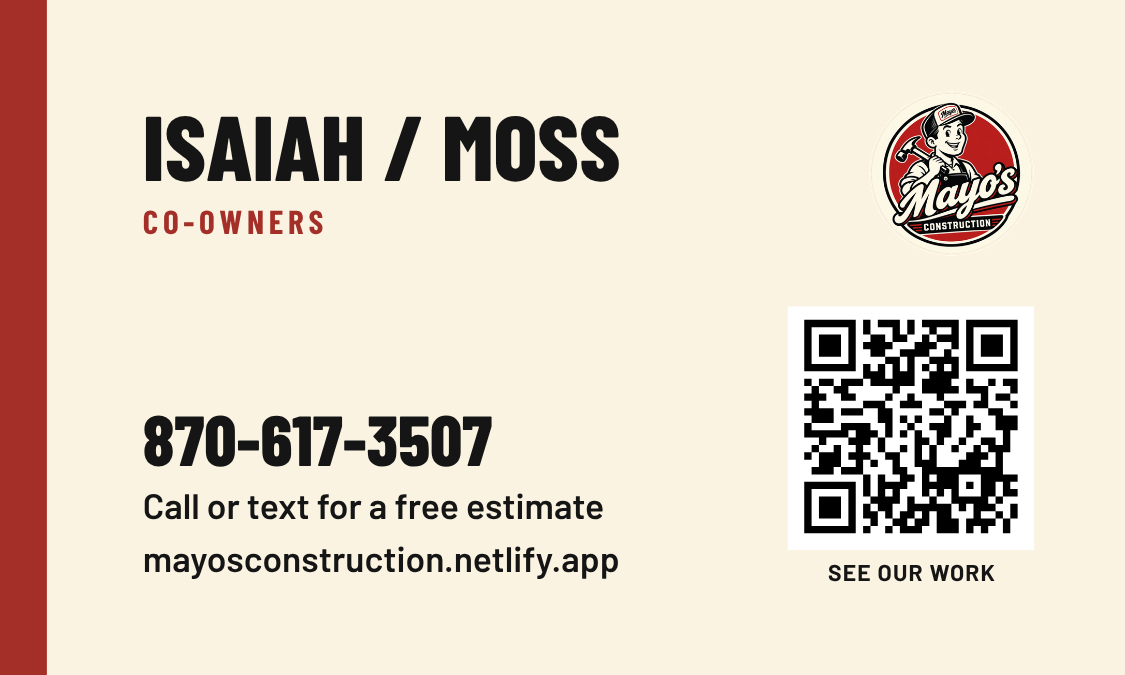
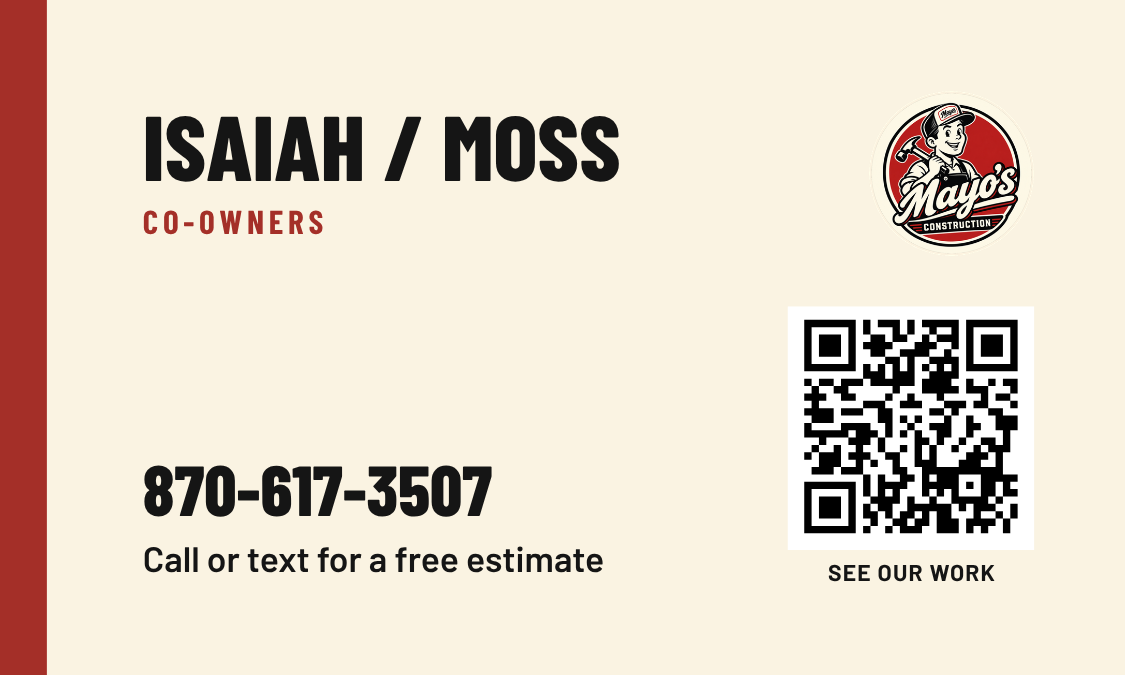
Business card: drop the typed-out website (QR code covers it)
Claude-Session: https://claude.ai/code/session_016r8tTYFp8jY15dkLJJkVBx

Changed region(s): [[0.1244, 0.5911, 0.56, 0.7778], [0.1244, 0.8089, 0.56, 0.8711]]

diff --git a/marketing/business-card.html b/marketing/business-card.html
@@ -49,7 +49,7 @@
     <div class="who"><div class="display person">Isaiah / Moss</div><div class="title">Co-Owners</div></div>
     <div class="contact">
       <div class="phone">870-617-3507</div>
-      Call or text for a free estimate<br>mayosconstruction.netlify.app
+      Call or text for a free estimate
     </div>
     <div class="qr"><img src="qr.svg" alt=""><div>See our work</div></div>
   </div>
